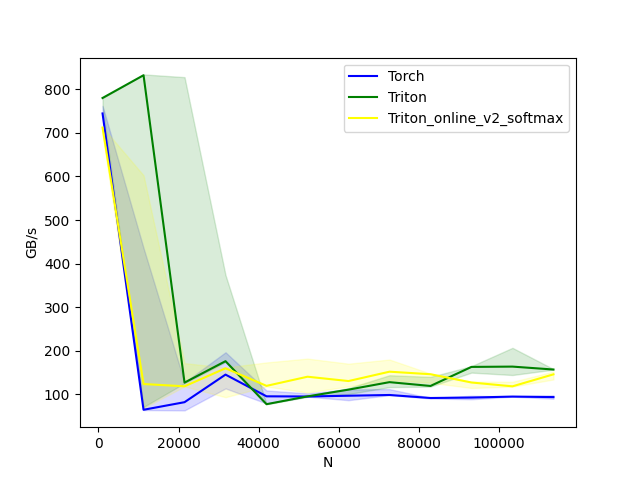
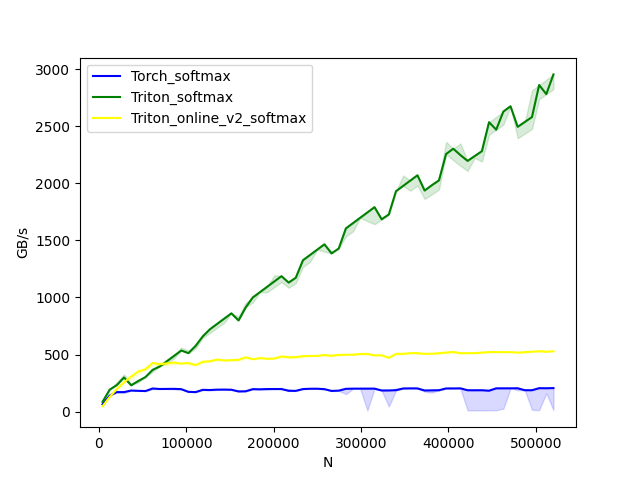
feat: replace torch.softmax with softmax_onlinev2

diff --git a/test/kernels_benchmark.py b/test/kernels_benchmark.py
@@ -173,33 +173,42 @@ for fp8_inputs in [False, True]:
 
 ################################benchamrk softmax################################
 # 对 softmax 操作的不同实现（Triton、PyTorch、PyTorch JIT）进行性能基准测试（Benchmark）
-@triton.testing.perf_report(
-    triton.testing.Benchmark(
+@triton.testing.perf_report( # 一个装饰器，用于测试和记录函数性能
+    triton.testing.Benchmark( # 定义了性能测试的不同维度，包括 x 轴参数、线条配置等
         x_names=['N'],  # argument names to use as an x-axis for the plot
-        x_vals=[1024 * i for i in range(1, 120, 10)],  # different possible values for `x_name`
+        x_vals=[4096 * i for i in range(1, 128, 2)],  # different possible values for `x_name`
         line_arg='provider',  # argument name whose value corresponds to a different line in the plot
-        line_vals=['torch', 'triton', 'triton_online_v2_softmax'],  # possible values for `line_arg``
+        line_vals=['torch_softmax', 'triton_softmax', 'triton_online_v2_softmax'],  # possible values for `line_arg``
         line_names=[
-            "Torch",
-            "Triton",
+            "Torch_softmax",
+            "Triton_softmax",
             'Triton_online_v2_softmax',
             
         ],  # label name for the lines
         styles=[('blue', '-'), ('green', '-'), ('yellow', '-')],  # line styles
         ylabel="GB/s",  # label name for the y-axis
         plot_name="softmax-performance",  # name for the plot. Used also as a file name for saving the plot.
-        args={'M': 4096},  # values for function arguments not in `x_names` and `y_name`
+        args={'M': 16},  # 设置除 x_names 和 line_arg 外的固定参数值，这里 M 表示批量大小。
     ))
 
 def bench_softmax(M, N, provider, mode='forward', eps=1e-5, device='cuda'):
+    """定义性能测试函数 bench_softmax。
+    参数：
+        M: 批量大小（固定为 4096)。
+        N: 特征维度大小（作为 x 轴变量变化）。
+        provider: 测试的实现提供者（如 'torch', 'triton' 等）。
+        mode='forward'：执行的模式，默认为前向传播。
+        eps=1e-5: 数值稳定性参数。
+        device='cuda'：运行设备。
+    """
     x = torch.randn(M, N, device='cuda', dtype=torch.float32)
     quantiles = [0.5, 0.2, 0.8]
     stream = torch.cuda.Stream()
     torch.cuda.set_stream(stream)
     
-    if provider == 'torch':
+    if provider == 'torch_softmax':
         ms, min_ms, max_ms = triton.testing.do_bench(lambda: torch.softmax(x, axis=-1), quantiles=quantiles)
-    elif provider == 'triton':
+    elif provider == 'triton_softmax':
         ms, min_ms, max_ms = triton.testing.do_bench(lambda: softmax_fwd(x), quantiles=quantiles)
     elif provider == 'triton_online_v2_softmax':
         ms, min_ms, max_ms = triton.testing.do_bench(lambda: softmax_onlinev2(x), quantiles=quantiles)
@@ -211,7 +220,7 @@ def bench_softmax(M, N, provider, mode='forward', eps=1e-5, device='cuda'):
 
 bench_softmax.run(print_data=True, save_path=result_path)
 """
-1. gbps(ms): 基于中位数 (median) 执行时间计算的 GB/s。通常用于表示典型性能。
+1.  gbps(ms): 基于中位数 (median) 执行时间计算的 GB/s。通常用于表示典型性能。
 2.	gbps(max_ms)：基于最大执行时间计算的 GB/s。表示在最差情况下的性能。
 3.	gbps(min_ms)：基于最小执行时间计算的 GB/s。表示在最佳情况下的性能。
 gbps(ms): 这是基于中位数(median) 执行时间计算的 GB/s, 代表了典型的性能表现。

diff --git a/lite_llama/generate.py b/lite_llama/generate.py
@@ -5,6 +5,8 @@ from transformers import AutoTokenizer
 
 from .executor.model_executor import ModelExecutor
 from .utils.file_interface import get_model_name_from_path
+from .kernels.softmax import softmax_fwd
+from .kernels.softmax_online_v2 import softmax_onlinev2
 
 class CompletionPrediction(TypedDict, total=False):
     generation: str
@@ -121,9 +123,12 @@ class GenerateText:
         for cur_pos in range(max_prompt_len, total_len):
             input_ids = tokens[:, prev_pos: cur_pos] # 当前输入 token ids, decode 阶段 input_ids shape is [4, 1]
             logits, select_index = self.model_executor.forward(input_ids, prev_pos) # 模型执行器的前向推理
-            
+            print("logits shape is ", logits.shape)
+            assert not torch.isnan(logits).any(), f"In pos: {cur_pos}, Model forward output logits tensor contains NaN values!"
+
             if temperature > 0:
-                probs = torch.softmax(logits[:, -1] / temperature, dim=-1) # torch.softma 将 logits 转换为概率分布。
+                probs = softmax_onlinev2(logits[:, -1] / temperature) # torch.softma 将 logits 转换为概率分布。
+                assert not torch.isnan(probs).any(), f"In pos: {cur_pos}, logits probs tensor contains NaN values!"
                 next_token = sample_top_p(probs, top_p) # next_token 形状为 [batch_size, 1]
             else:
                 next_token = torch.argmax(logits[:, -1], dim=-1)
